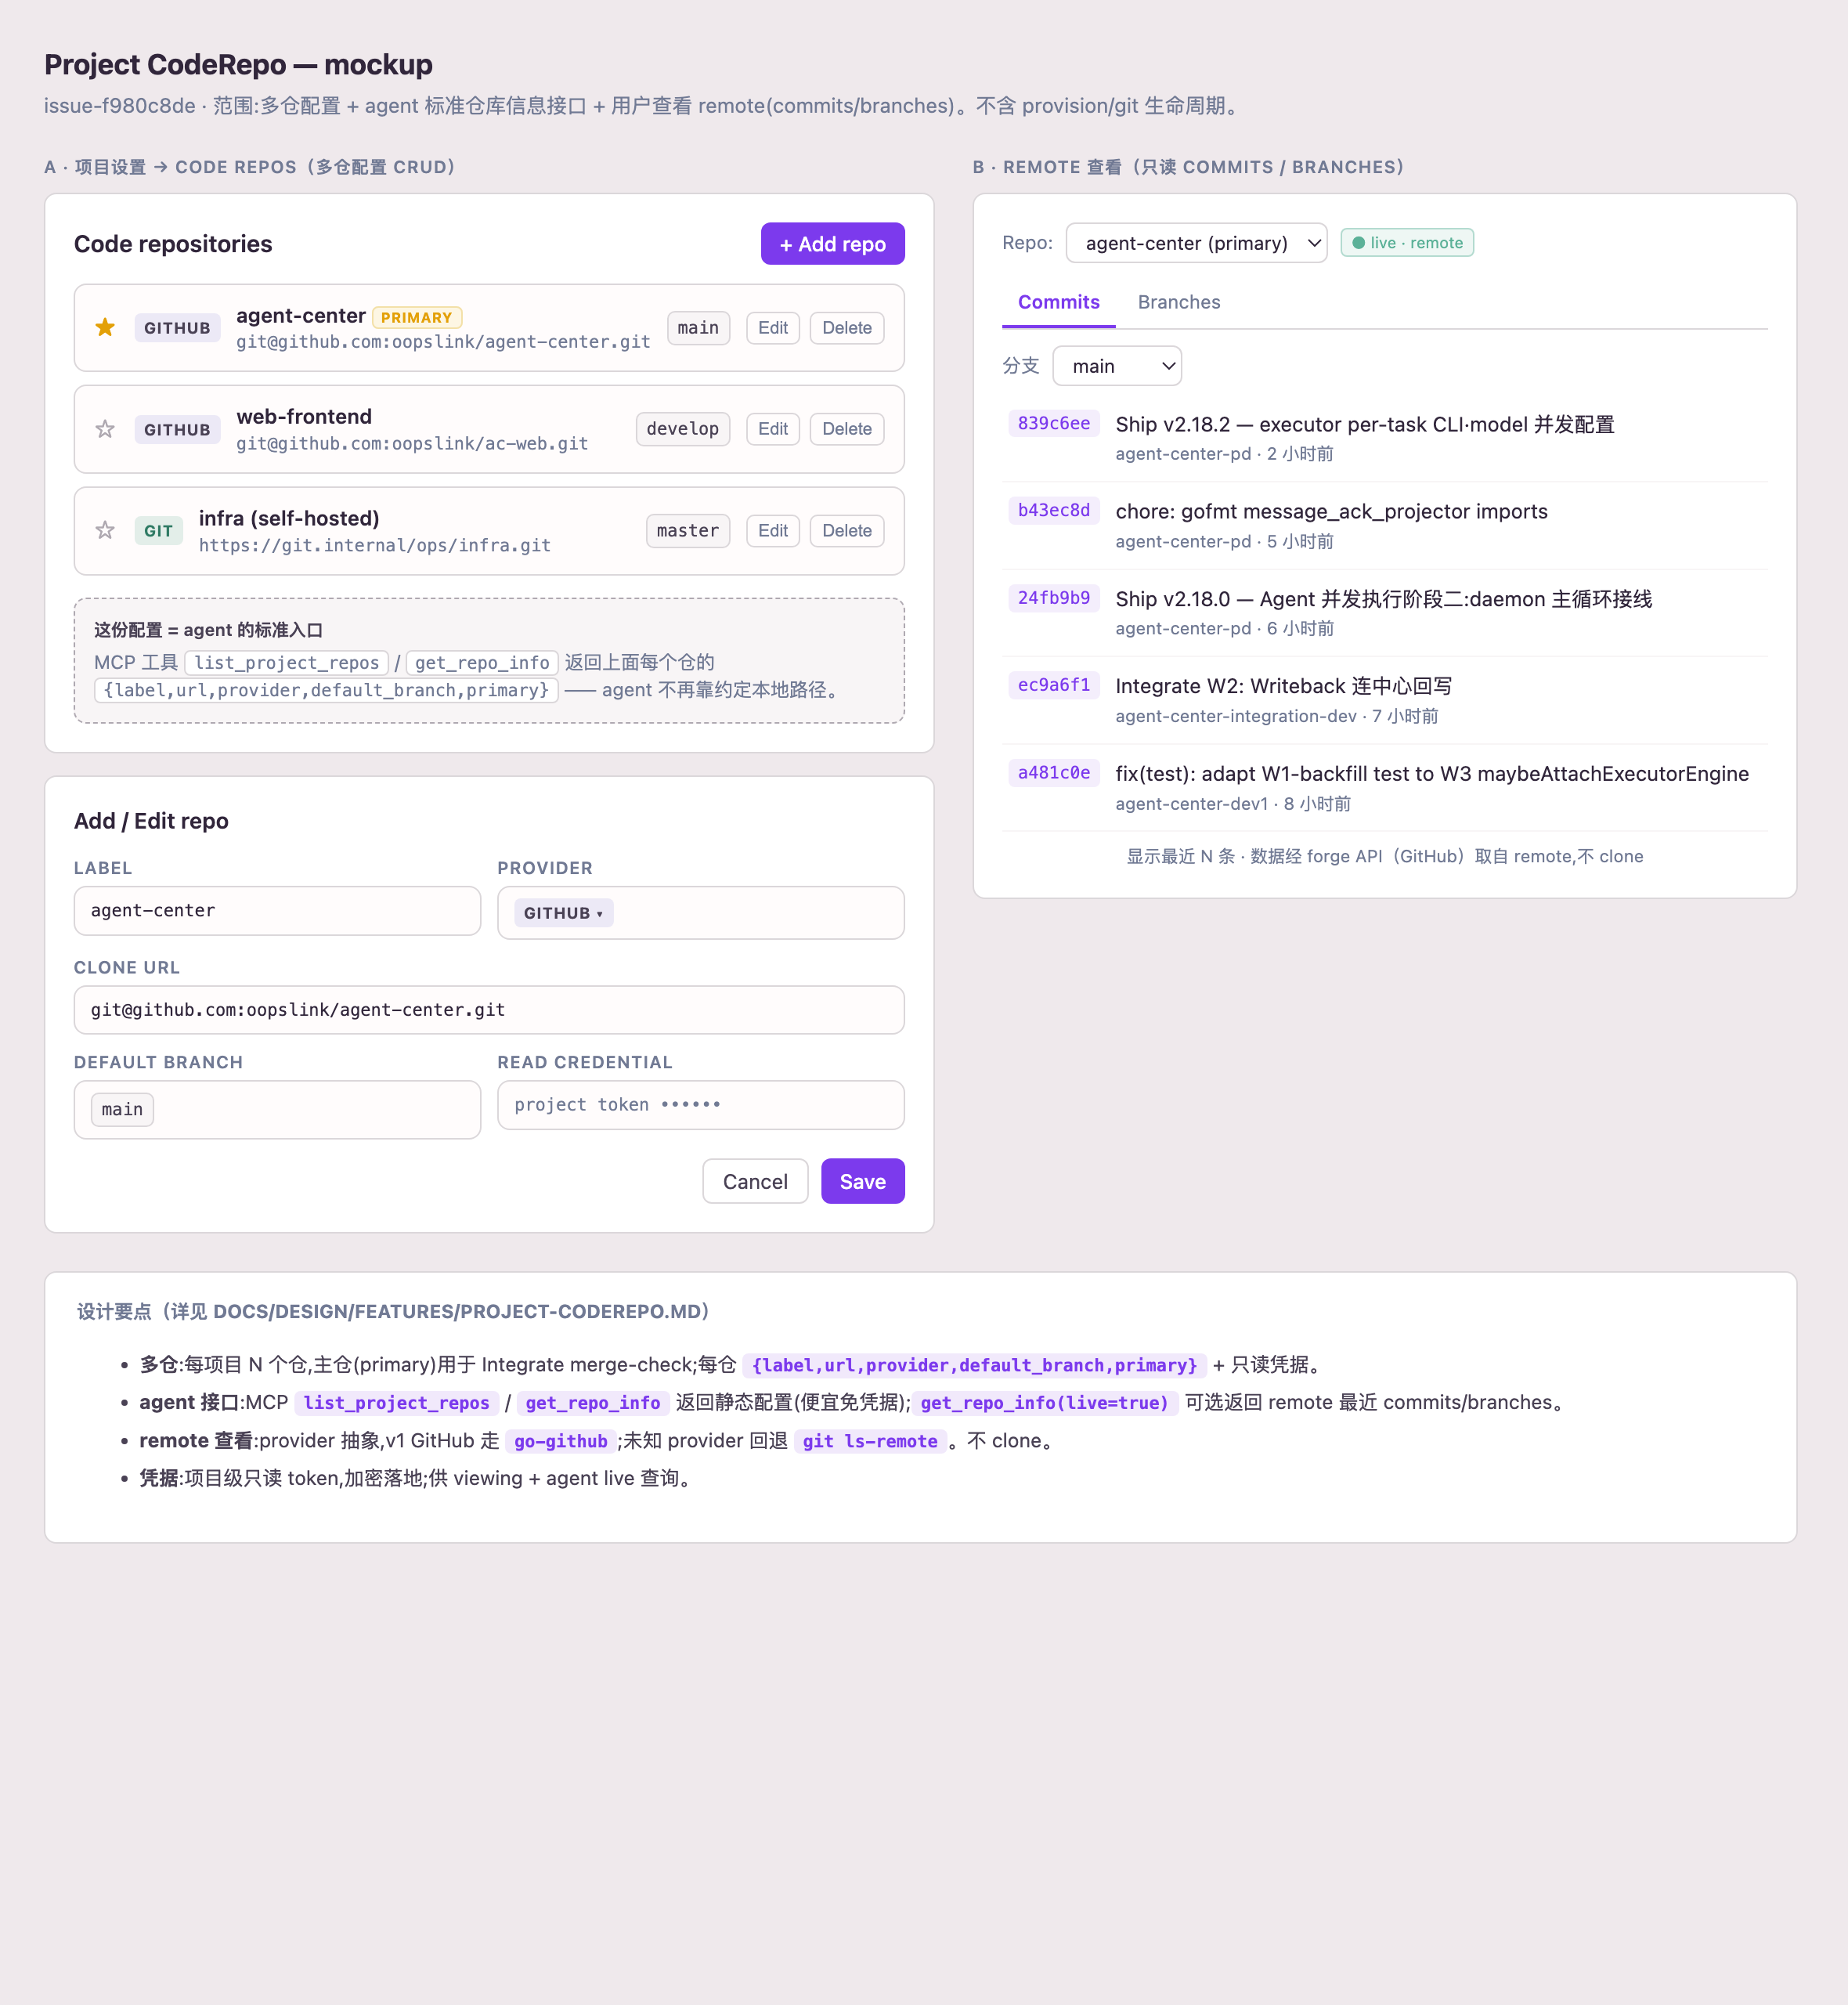
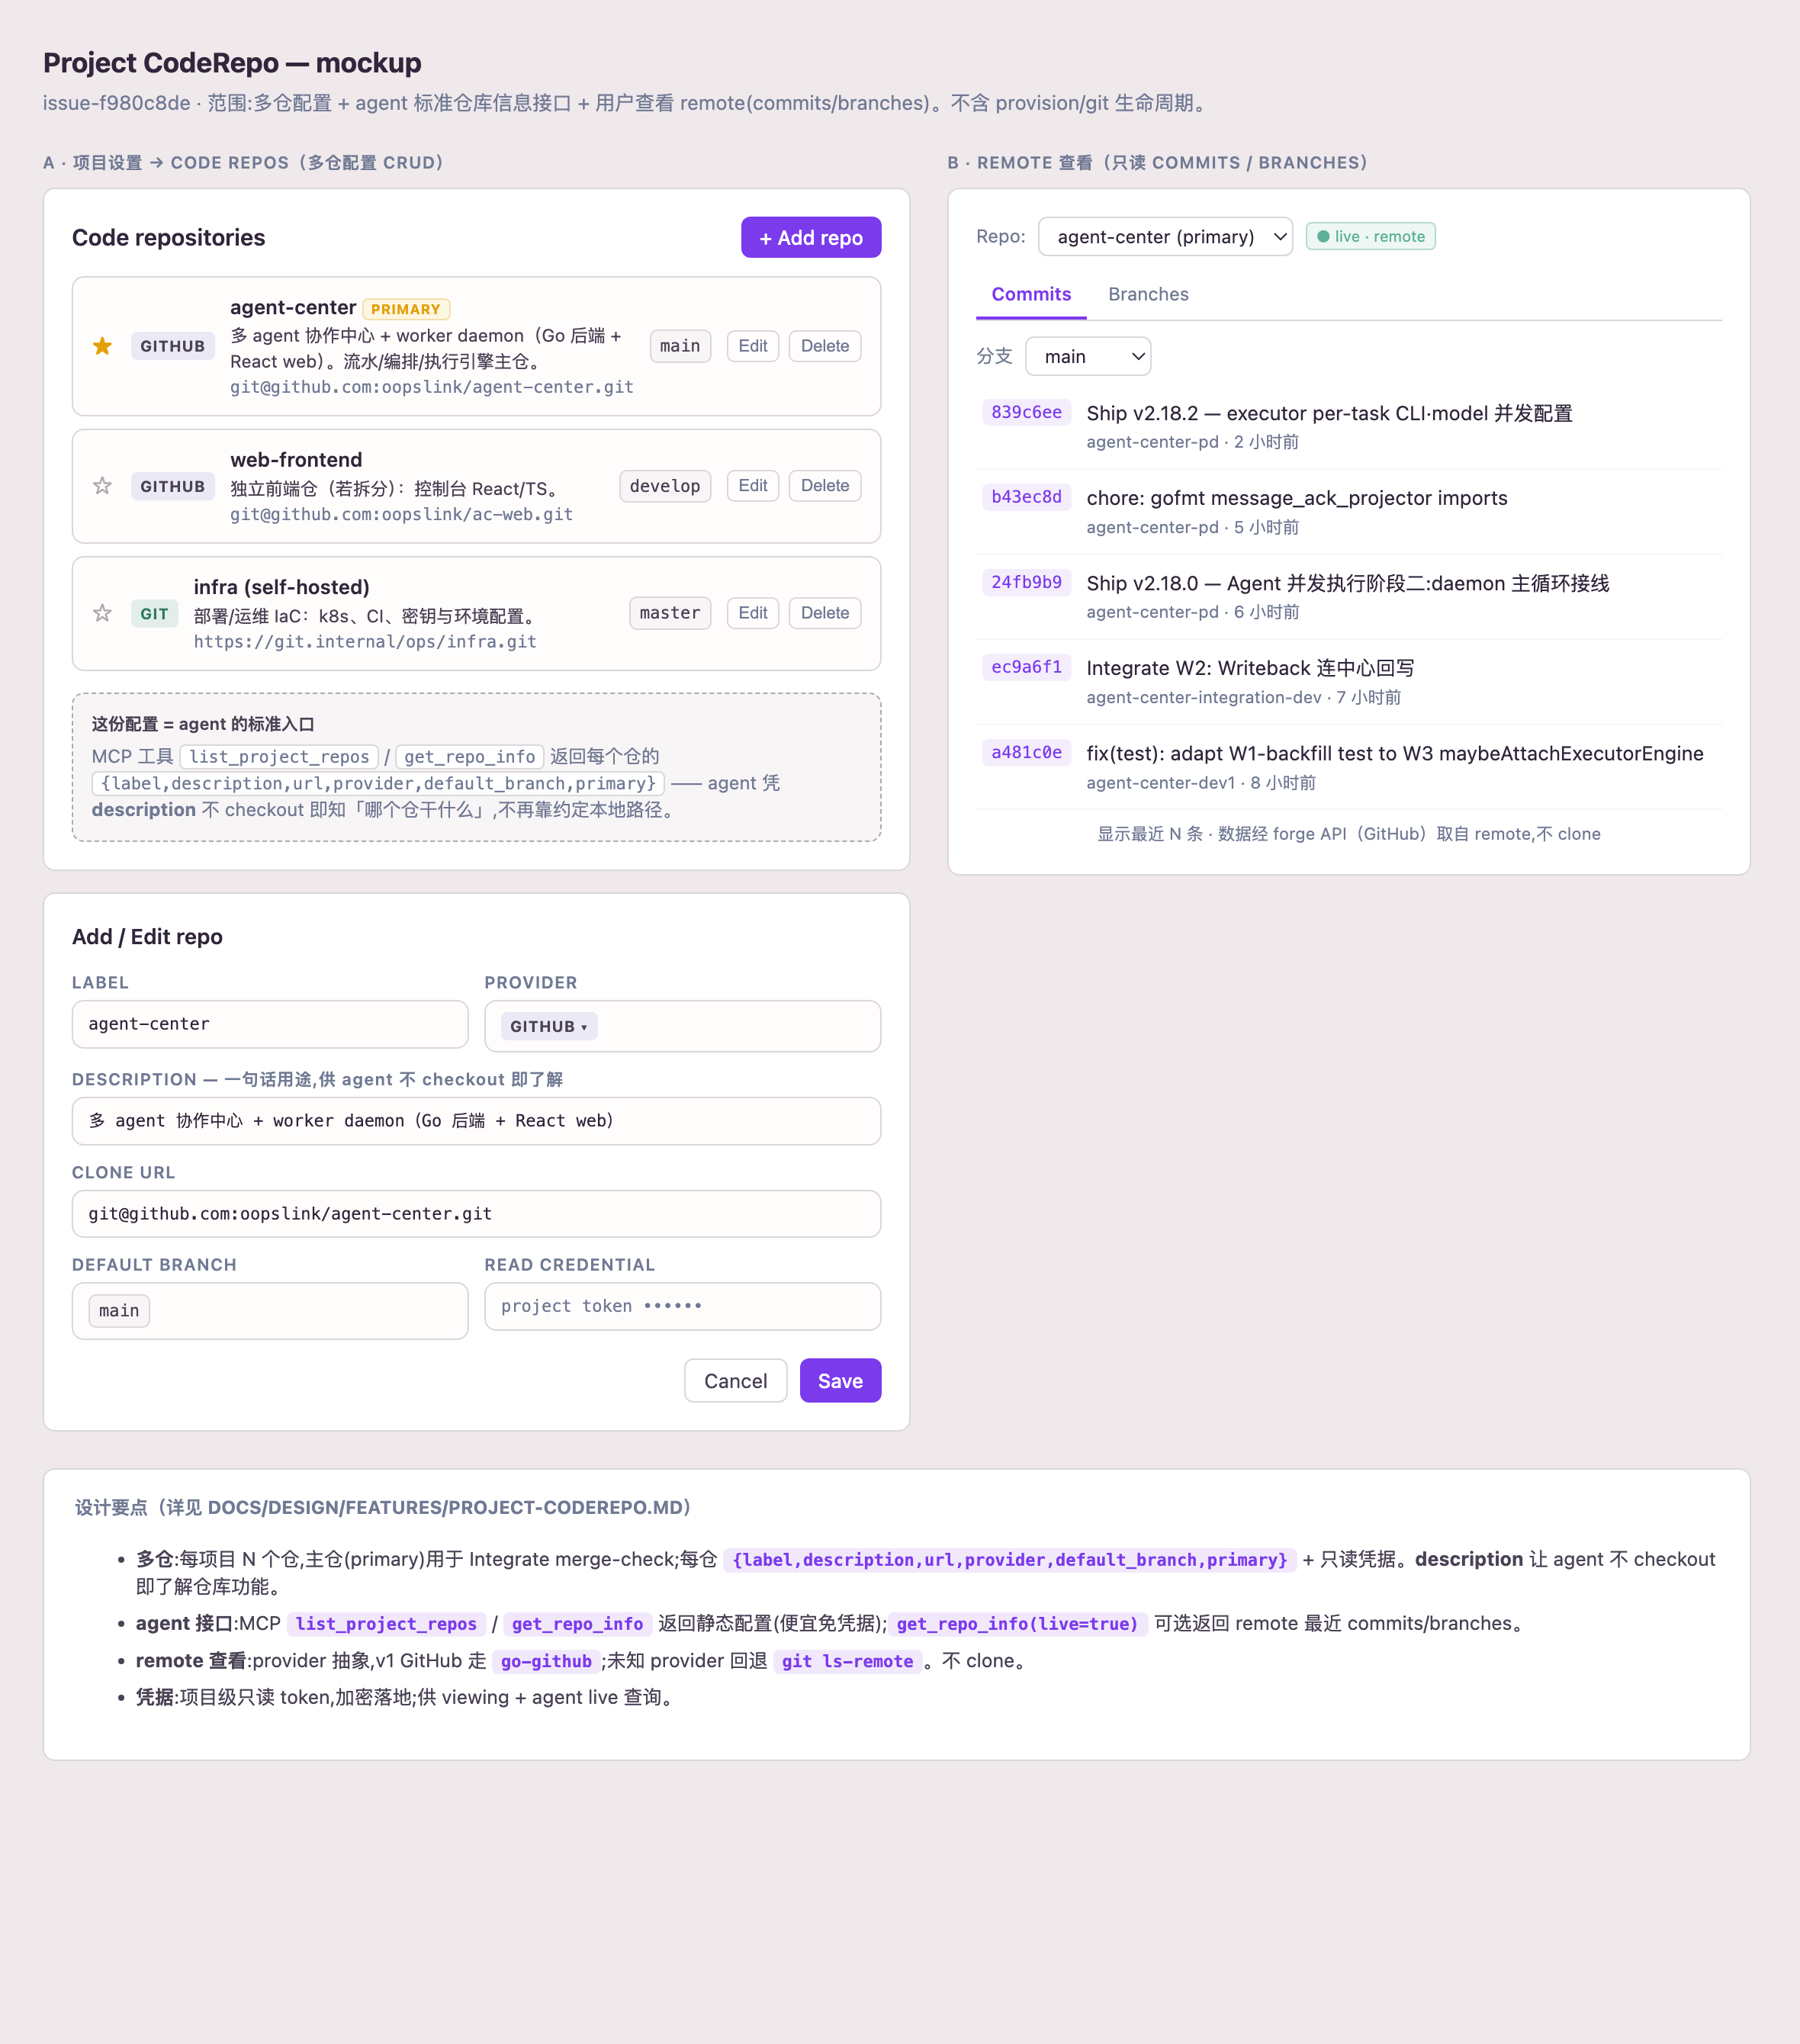
docs(coderepo): add per-repo description field (agent understands repo w/o checkout)
oopslink: each repo needs a one-line description so an agent grasps the repo's
purpose without checkout. Added description to the data model (§3), agent
interface returns (§4), FE form/list (§8), and the mockup.

diff --git a/docs/design/assets/project-coderepo-mockup.html b/docs/design/assets/project-coderepo-mockup.html
@@ -24,6 +24,7 @@
   .prov-gh{background:#ece9f6;color:#4a4255}.prov-gl{background:#fde9dd;color:#b0560f}.prov-git{background:#e3eee9;color:#2f7a64}
   .repo .meta{flex:1;min-width:0}
   .repo .label{font-weight:600;font-size:13px}
+  .repo .desc{font-size:11.5px;color:var(--text-secondary);margin:1px 0}
   .repo .url{font-family:ui-monospace,Menlo,monospace;font-size:11px;color:var(--text-muted);overflow:hidden;text-overflow:ellipsis;white-space:nowrap}
   .repo .br{font-size:11px;color:var(--text-secondary);background:var(--bg-subtle);border:1px solid var(--border);border-radius:5px;padding:2px 6px;font-family:ui-monospace,Menlo,monospace}
   .repo .acts{display:flex;gap:6px}
@@ -62,6 +63,7 @@
           <span class="star on" title="primary">★</span>
           <span class="prov prov-gh">GitHub</span>
           <div class="meta"><div class="label">agent-center <span class="primary-pill">primary</span></div>
+            <div class="desc">多 agent 协作中心 + worker daemon（Go 后端 + React web）。流水/编排/执行引擎主仓。</div>
             <div class="url">[email redacted]:oopslink/agent-center.git</div></div>
           <span class="br">main</span>
           <div class="acts"><button class="ico">Edit</button><button class="ico">Delete</button></div>
@@ -71,6 +73,7 @@
           <span class="star off" title="set primary">☆</span>
           <span class="prov prov-gh">GitHub</span>
           <div class="meta"><div class="label">web-frontend</div>
+            <div class="desc">独立前端仓（若拆分）：控制台 React/TS。</div>
             <div class="url">[email redacted]:oopslink/ac-web.git</div></div>
           <span class="br">develop</span>
           <div class="acts"><button class="ico">Edit</button><button class="ico">Delete</button></div>
@@ -80,6 +83,7 @@
           <span class="star off" title="set primary">☆</span>
           <span class="prov prov-git">git</span>
           <div class="meta"><div class="label">infra (self-hosted)</div>
+            <div class="desc">部署/运维 IaC：k8s、CI、密钥与环境配置。</div>
             <div class="url">https://git.internal/ops/infra.git</div></div>
           <span class="br">master</span>
           <div class="acts"><button class="ico">Edit</button><button class="ico">Delete</button></div>
@@ -87,7 +91,7 @@
 
         <div class="agentbox">
           <div style="font-size:11px;font-weight:600;color:var(--text-secondary);margin-bottom:4px">这份配置 = agent 的标准入口</div>
-          <div style="font-size:12px;color:var(--text-muted)">MCP 工具 <code>list_project_repos</code> / <code>get_repo_info</code> 返回上面每个仓的 <code>{label,url,provider,default_branch,primary}</code> —— agent 不再靠约定本地路径。</div>
+          <div style="font-size:12px;color:var(--text-muted)">MCP 工具 <code>list_project_repos</code> / <code>get_repo_info</code> 返回每个仓的 <code>{label,description,url,provider,default_branch,primary}</code> —— agent 凭 <b>description</b> 不 checkout 即知「哪个仓干什么」,不再靠约定本地路径。</div>
         </div>
       </div>
 
@@ -96,6 +100,7 @@
         <div style="display:grid;grid-template-columns:1fr 1fr;gap:10px">
           <div><div class="frame-label" style="margin-bottom:3px">Label</div><div class="repo" style="margin:0;padding:7px 10px"><span class="url" style="color:var(--text-primary)">agent-center</span></div></div>
           <div><div class="frame-label" style="margin-bottom:3px">Provider</div><div class="repo" style="margin:0;padding:7px 10px"><span class="prov prov-gh">GitHub ▾</span></div></div>
+          <div style="grid-column:1/3"><div class="frame-label" style="margin-bottom:3px">Description <span style="text-transform:none;color:var(--text-muted)">— 一句话用途,供 agent 不 checkout 即了解</span></div><div class="repo" style="margin:0;padding:7px 10px"><span class="url" style="color:var(--text-primary)">多 agent 协作中心 + worker daemon（Go 后端 + React web）</span></div></div>
           <div style="grid-column:1/3"><div class="frame-label" style="margin-bottom:3px">Clone URL</div><div class="repo" style="margin:0;padding:7px 10px"><span class="url" style="color:var(--text-primary)">[email redacted]:oopslink/agent-center.git</span></div></div>
           <div><div class="frame-label" style="margin-bottom:3px">Default branch</div><div class="repo" style="margin:0;padding:7px 10px"><span class="br">main</span></div></div>
           <div><div class="frame-label" style="margin-bottom:3px">Read credential</div><div class="repo" style="margin:0;padding:7px 10px"><span class="url" style="color:var(--text-muted)">project token ••••••</span></div></div>
@@ -129,7 +134,7 @@
   <div class="notes">
     <h3>设计要点（详见 docs/design/features/project-coderepo.md）</h3>
     <ul>
-      <li><b>多仓</b>:每项目 N 个仓,主仓(primary)用于 Integrate merge-check;每仓 <span class="pill">{label,url,provider,default_branch,primary}</span> + 只读凭据。</li>
+      <li><b>多仓</b>:每项目 N 个仓,主仓(primary)用于 Integrate merge-check;每仓 <span class="pill">{label,description,url,provider,default_branch,primary}</span> + 只读凭据。<b>description</b> 让 agent 不 checkout 即了解仓库功能。</li>
       <li><b>agent 接口</b>:MCP <span class="pill">list_project_repos</span> / <span class="pill">get_repo_info</span> 返回静态配置(便宜免凭据);<span class="pill">get_repo_info(live=true)</span> 可选返回 remote 最近 commits/branches。</li>
       <li><b>remote 查看</b>:provider 抽象,v1 GitHub 走 <span class="pill">go-github</span>;未知 provider 回退 <span class="pill">git ls-remote</span>。不 clone。</li>
       <li><b>凭据</b>:项目级只读 token,加密落地;供 viewing + agent live 查询。</li>

diff --git a/docs/design/features/project-coderepo.md b/docs/design/features/project-coderepo.md
@@ -33,6 +33,7 @@
 |---|---|
 | `id` / `project_id` | 既有 |
 | `label` | 既有，显示名 |
+| `description` | **新**：一句话仓库用途简介，让 agent **不 checkout 即可了解该仓功能**（oopslink 要求）。由 §4 agent 接口与 viewing/列表返回展示 |
 | `url` | 既有，clone/remote URL |
 | `provider` | **新**：`github` / `gitlab` / `git`（generic）。决定 viewing/agent-live 走哪个适配器；空/未知 → `git` 回退 |
 | `default_branch` | **新**：默认分支（viewing 默认展示、agent 取值）。空 → 运行时探测或留空 |
@@ -46,12 +47,12 @@
 
 新增两个**只读** agent 工具，作为 agent 知道「代码在哪」的标准入口，替掉约定本地路径：
 
-- `list_project_repos(project_id)` → `[{label,url,provider,default_branch,is_primary}]`（**静态配置，便宜、无需凭据**）。
+- `list_project_repos(project_id)` → `[{label,description,url,provider,default_branch,is_primary}]`（**静态配置，便宜、无需凭据**）。
 - `get_repo_info(project_id, repo_id?|primary, live?)` →
   - 默认（`live=false`）：单仓静态配置。
   - `live=true`：附带 remote 最近 commits（sha/msg/author/time）+ branches（**需凭据 + 远端调用**，见 §5/§6）。
 
-口径：默认静态、live 可选——避免每次都打远端。返回 schema 与 §3 字段一致，FE 与 agent 共用同一形状。
+口径：默认静态、live 可选——避免每次都打远端。返回 schema 与 §3 字段一致，FE 与 agent 共用同一形状。其中 `description`（§3 新增）是关键：agent 调 `list_project_repos` 即可**不 checkout** 判断「该仓是干什么的、该去哪个仓找代码」。
 
 ## 5. 用户查看 remote（commits / branches）
 
@@ -84,7 +85,7 @@
 
 ## 8. FE（见 mockup）
 
-- 项目设置 → **Code repositories**：仓列表（provider badge / default_branch / primary★ / Edit / Delete / Add）+ Add/Edit 表单（label/provider/url/default_branch/凭据 mask）。
+- 项目设置 → **Code repositories**：仓列表（provider badge / default_branch / primary★ / Edit / Delete / Add）+ Add/Edit 表单（label/**description**/provider/url/default_branch/凭据 mask）；列表每行展示一句话 description。
 - **Remote 查看**：选仓 → Commits / Branches 两 tab，commits 列 sha/msg/author/相对时间，只读，标注「live · remote，不 clone」。
 
 ## 9. 实施拆解（建议 cycle plan）